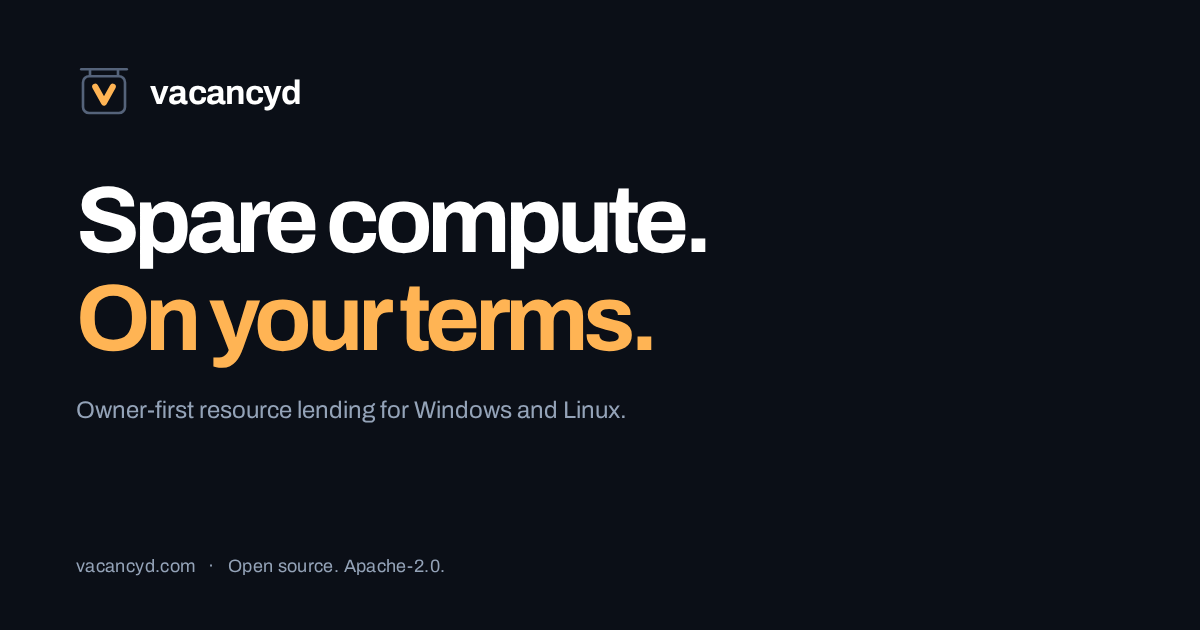
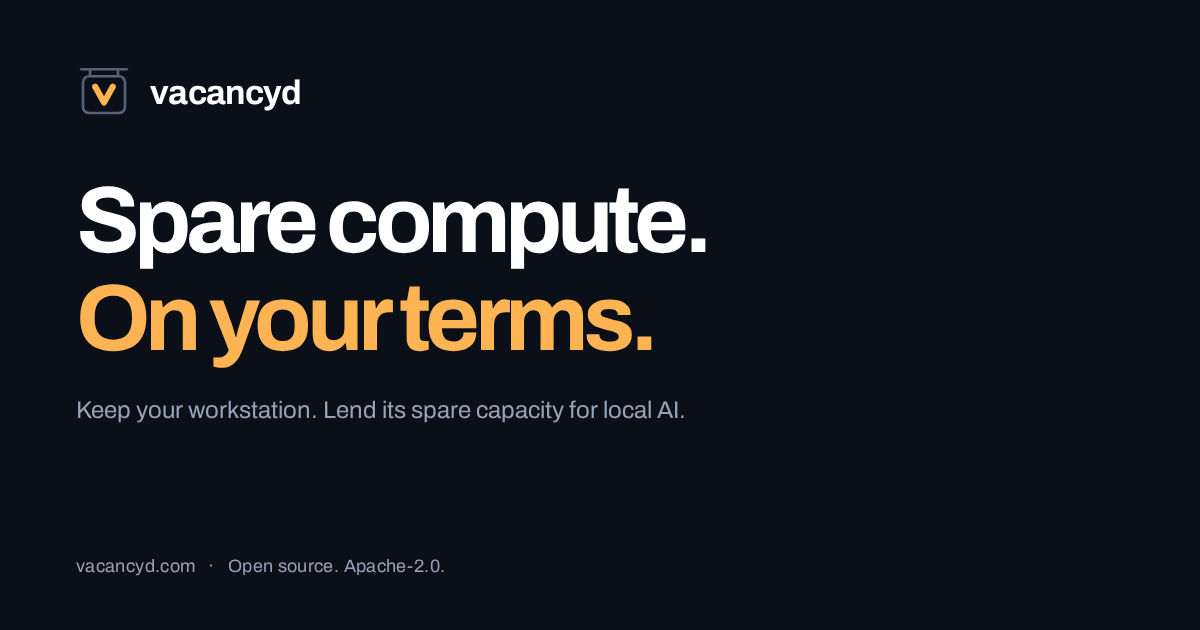
docs: unify workstation lending message

Changed region(s): [[0.0617, 0.6333, 0.5858, 0.6635]]

diff --git a/website/index.html b/website/index.html
@@ -6,7 +6,7 @@
     <title>Vacancyd — Spare compute. On your terms.</title>
     <meta
       name="description"
-      content="Lend spare compute to local AI while keeping owner policy in control. Vacancyd checks presence, resources and workload policy before admitting borrowed work."
+      content="Keep your workstation. Let your homelab borrow its spare capacity for local AI, without turning it into a cluster node. You choose what can lend and when."
     />
     <link rel="canonical" href="https://vacancyd.com/" />
     <meta name="theme-color" content="#0b0f17" />
@@ -18,7 +18,7 @@
     />
     <meta
       property="og:description"
-      content="Your workstation has room for more. You still get first call."
+      content="Your workstation stays a workstation. Your homelab borrows its spare capacity for local AI. You choose what can lend and when."
     />
     <meta property="og:url" content="https://vacancyd.com/" />
     <meta
@@ -32,7 +32,7 @@
     />
     <meta
       name="twitter:description"
-      content="Owner-first resource lending for local compute. Windows and Linux. Apache-2.0."
+      content="Keep your workstation. Lend its spare capacity for local AI. Windows and Linux. Apache-2.0."
     />
     <meta
       name="twitter:image"
@@ -47,7 +47,7 @@
         "@type": "SoftwareApplication",
         "name": "Vacancyd",
         "url": "https://vacancyd.com/",
-        "description": "Owner-first resource lending for local compute.",
+        "description": "Keep your workstation. Let your homelab borrow its spare capacity for local AI under your rules.",
         "applicationCategory": "DeveloperApplication",
         "operatingSystem": "Windows, Linux",
         "license": "https://www.apache.org/licenses/LICENSE-2.0",
@@ -82,12 +82,12 @@
     <main id="main">
       <section class="hero" aria-labelledby="hero-title">
         <div class="hero-copy wrap">
-          <p class="eyebrow">Owner-first compute lending</p>
+          <p class="eyebrow">Your workstation. More useful to your homelab.</p>
           <h1 id="hero-title">
             Spare compute.<br /><span>On your terms.</span>
           </h1>
           <p class="hero-description">
-            Your workstation has room for more.<br />You still get first call.
+            Keep your workstation.<br />Let your homelab borrow its spare capacity for local AI.
           </p>
           <div class="hero-actions">
             <a class="button" href="#get-vacancyd"
@@ -132,19 +132,29 @@
       >
         <p class="eyebrow">Built for the machine you already use</p>
         <h2 id="idea-title">
-          A workstation.<br /><span class="muted">With a little vacancy.</span>
+          Your best GPU.<br /><span class="muted">Still your workstation.</span>
         </h2>
         <div class="intro-bottom">
           <p class="large-copy">
-            Run a local model. Share an inference route. Put spare resources to
-            work when your machine can afford it.
+            Your workstation may be one of the most powerful computers in your
+            homelab. It's also where you work and play, with capacity sitting
+            unused for a good chunk of the day.
           </p>
           <p>
-            Vacancyd sits in front of your inference server. Before borrowed
-            work gets through, it checks owner policy, resource availability and
-            the rules for that workload. You choose what can lend, and when.
+            Making it a cluster node or virtualization host can mean getting your
+            desktop back through a thin client or GPU passthrough. Vacancyd gives
+            you a hybrid option: keep your operating system and everyday apps,
+            while other homelab applications borrow spare capacity through local
+            AI services. You choose what they can borrow and when.
           </p>
         </div>
+        <p class="intro-services">
+          Use it with Ollama, llama.cpp, ComfyUI, Chatterbox or the
+          <a href="https://docs.vacancyd.com/architecture/">documented routes</a>
+          of OpenAI-compatible servers. Vacancyd checks owner activity, available
+          resources and the requested workload before letting borrowed work through.
+          Your workstation doesn't have to join the cluster.
+        </p>
       </section>
 
       <section
@@ -155,9 +165,11 @@
         <div class="wrap">
           <div class="section-heading reveal">
             <p class="eyebrow">The sign says it all</p>
-            <h2 id="how-title">Room for work.<br />Until you need it.</h2>
+            <h2 id="how-title">Room for a<br />temporary resident.</h2>
             <p>
-              A normal refusal is the policy working. Try the two states below.
+              VACANCY means there's room for a new temporary resident: a borrowed
+              workload. NO VACANCY means the machine isn't accepting that work
+              under the current rules. Try the two states below.
             </p>
           </div>
           <div class="demo-panel reveal">
@@ -183,7 +195,7 @@
               ><span class="sign-vacancy">VACANCY</span>
             </div>
             <div class="demo-caption" aria-live="polite" aria-atomic="true">
-              <h3 id="demo-title">Room for borrowed work.</h3>
+              <h3 id="demo-title">Room for a temporary resident.</h3>
               <p id="demo-description">
                 This example route can accept work while its owner is away and
                 the resource checks pass.
@@ -200,6 +212,8 @@
               Interactive illustration, not live telemetry. Work already
               admitted follows your configured cancel, drain or finish policy.
               Resource-scoped routes can have different owner-presence rules.
+              A closed connection or an unload acknowledgement alone doesn't
+              prove that computation stopped or memory was recovered.
             </p>
           </div>
         </div>
@@ -238,9 +252,9 @@
             <span class="feature-number">02 / Capacity</span>
             <h3>Spare means spare.</h3>
             <p>
-              CPU, memory and GPU checks decide whether a configured route has
-              room. Unknown or stale required readings withhold new work rather
-              than guessing.
+              Measured model footprints and CPU, memory and GPU checks decide
+              whether a configured route has room. Unknown or stale required
+              readings withhold new work.
             </p>
             <div class="resource-art" aria-hidden="true">
               <span>CPU <i style="--fill: 38%"></i></span
@@ -253,9 +267,10 @@
             <span class="feature-number">03 / Policy</span>
             <h3>Set the terms.</h3>
             <p>
-              Choose the resources a workload needs, who may borrow them and
-              what happens to admitted work when policy changes. Pause lending
-              from the owner console.
+              Choose what can lend and when. A dedicated second GPU can keep
+              lending while you're at the keyboard, subject to its resource
+              checks. Set what happens to accepted work when permission changes:
+              cancel, allow a bounded time to finish, or let it complete.
             </p>
             <a href="https://docs.vacancyd.com/admission/"
               >Read the admission rules <span aria-hidden="true">↗</span></a
@@ -276,7 +291,8 @@
             <p>
               See what is lending, what is withholding and why. Inspect workload
               decisions, adjust supported settings and export diagnostics when
-              you need a closer look.
+              you need a closer look. Prometheus metrics let your other tools
+              observe availability; those tools still choose and route the work.
             </p>
           </div>
           <div class="console-detail reveal">
@@ -347,8 +363,9 @@
           <a href="https://docs.vacancyd.com/#platform-support"
             >platform support table</a
           >
-          before enabling lending. ARM64 is preview. macOS is not supported in
-          version 1.0.
+          before enabling lending. NVIDIA is the current GPU target. Windows has
+          the fuller desktop-activity and attributed GPU-pressure checks. Linux
+          ARM64 is preview. macOS is not supported in version 1.0.
         </p>
       </section>
 
@@ -386,8 +403,10 @@
             >
           </div>
           <p class="download-license">
-            Open source under Apache-2.0.<br />Built for a trusted network. Keep
-            your inference servers behind it.
+            Open source under Apache-2.0.<br />The daemon runs locally, without a
+            marketplace account, external control service or product telemetry.
+            Scoped tokens can restrict borrower access. Keep the underlying AI
+            services inaccessible to borrowers so they can't bypass the gate.
           </p>
         </div>
       </section>

diff --git a/website/app.js b/website/app.js
@@ -8,7 +8,7 @@ for (const button of choices) {
     sign.dataset.vacancy = String(away);
     sign.setAttribute("aria-label", away ? "Vacancy" : "No vacancy");
     document.querySelector("#demo-title").textContent = away
-      ? "Room for borrowed work."
+      ? "Room for a temporary resident."
       : "Owner policy pauses new work.";
     document.querySelector("#demo-description").textContent = away
       ? "This example route can accept work while its owner is away and the resource checks pass."

diff --git a/website/styles.css b/website/styles.css
@@ -344,6 +344,13 @@ button {
   letter-spacing: -0.015em;
   color: #94a3b8;
 }
+.intro-services {
+  max-width: 80ch;
+  margin-top: 32px;
+  color: var(--slate);
+  font-size: 16px;
+  line-height: 1.7;
+}
 .demo-section {
   background: #ffffff;
   color: #151b27;
@@ -728,8 +735,9 @@ button {
   margin: 24px auto;
 }
 .download-license {
-  margin-top: 26px;
-  font-size: 11px;
+  max-width: 68ch;
+  margin: 26px auto 0;
+  font-size: 14px;
   line-height: 1.8;
   color: #94a3b8;
 }

diff --git a/scripts/prepare_docs.py b/scripts/prepare_docs.py
@@ -16,7 +16,7 @@ REPOSITORY = "https://github.com/maxfield-allison/vacancyd"
 LINK = re.compile(r"(?P<start>!?\[[^\]\n]*\]\()(?P<url>[^\s)]+)(?P<end>\))")
 
 DESCRIPTIONS = {
-    "index.md": "Owner-first compute lending for Windows and Linux: capabilities, installation, security and platform support.",
+    "index.md": "Keep your workstation. Let your homelab borrow its spare capacity for local AI. Setup, house rules and platform support for Windows and Linux.",
     "setup.md": "Install and configure vacancyd, verify a protected configuration and activate resource lending.",
     "windows-service.md": "Install and manage the vacancyd Windows service, owner console and session agent.",
     "container.md": "Run vacancyd in a Linux container with explicit presence policy, GPU access and verified images.",

diff --git a/README.md b/README.md
@@ -1,16 +1,24 @@
 # vacancyd
 
-[![vacancyd — Spare compute. On your terms.](https://raw.githubusercontent.com/maxfield-allison/vacancyd/main/website/assets/social-card.png)](https://vacancyd.com/)
+[![vacancyd: Spare compute. On your terms. Keep your workstation. Lend its spare capacity for local AI.](https://raw.githubusercontent.com/maxfield-allison/vacancyd/main/website/assets/social-card.png)](https://vacancyd.com/)
 
-**Gate borrowed AI requests on owner policy and available resources.** Windows and Linux. Apache-2.0.
+**Keep your workstation. Let your homelab borrow its spare capacity for local AI.** Windows and Linux. Apache-2.0.
 
 [App website](https://vacancyd.com/) · [Documentation](https://docs.vacancyd.com/) · [Setup guide](docs/setup.md) · [Release verification](docs/releasing.md) · [Security](SECURITY.md)
 
 > **Release status:** source is available. Signed version 1.0.0 downloads and container images are being prepared; a source tag alone is not a published binary release.
 
-Your gaming PC has the best GPU in the house and sits idle most of the day. Your homelab wants that VRAM. The obvious move is to point the cluster at the box. That has an obvious failure mode: a 13 GiB model loads in the middle of a boss fight.
+Your workstation may be one of the most powerful computers in your homelab. It might have the best GPU you own. It's also the machine you use for games and everyday work, and for a good chunk of the day, much of that capacity sits unused.
 
-vacancyd is the motel sign for your hardware. Put it in front of a dedicated inference server and point borrowers at the gate. **VACANCY** means an upstream can admit new work; **NO VACANCY** means it refuses with HTTP 503, a reason and `Retry-After`. Gateway failover depends on the gateway's adapter and configuration.
+Putting it to work for the rest of the homelab can mean changing what that machine is. Turn it into a cluster node or virtualization host, and now you're figuring out how to get your desktop back through a thin client or GPU passthrough. The GPU can still end up tied to one environment. Keep the workstation separate, and your other machines may be struggling for capacity while it has room to spare.
+
+vacancyd gives you a hybrid option. Your workstation stays a workstation, running its own operating system and the applications you use. Other applications in your homelab can borrow its spare capacity for local AI work through services running on it. You choose what they can borrow and when. The workstation doesn't have to join the cluster, and you don't have to move your desktop into a virtual machine to make its GPU useful elsewhere.
+
+The name comes from a motel's vacancy sign. **VACANCY** means there's room for a new temporary resident: a borrowed workload. **NO VACANCY** means the machine isn't accepting that work under the current rules. Put vacancyd in front of a dedicated AI service and point borrowers at the gate. A refusal returns HTTP 503, a reason and `Retry-After`, which a borrower can use to wait or try another machine if configured to do so. Gateway failover depends on the gateway's adapter and configuration.
+
+## You set the house rules
+
+vacancyd checks owner activity, available resources and the requirements of the requested workload before letting it through. Configure measured model footprints and dependencies across GPU memory, system memory and CPU. Missing or stale required readings withhold new work. Supported integrations include Ollama, llama.cpp, ComfyUI, Chatterbox and the documented routes of OpenAI-compatible servers.
 
 By default, an upstream uses `owner_scope = "host"`, so owner presence can refuse its new work. Accepted work follows its configured cancel, drain or finish policy; the default drain window is 30 seconds. Closing a proxy connection does not prove that the upstream stopped computing or released memory. Automatic model unloading is a separate, adapter-specific option.
 

diff --git a/docs/brand.md b/docs/brand.md
@@ -10,7 +10,7 @@ Status: **console visual direction settled**. Its scope is dark surfaces, amber 
 
 The name is doing the work already, so the identity should follow it rather than invent something alongside it.
 
-**vacancyd is a vacancy sign.** The sign matches the interface: `/status` reports `vacancy: true|false` per upstream, and a refusal returns the error code `no_vacancy`. Use it to show the lending state.
+**vacancyd is a vacancy sign.** VACANCY means there's room for a new temporary resident: a borrowed workload. NO VACANCY means the machine isn't accepting that work under the current rules. The sign matches the interface: `/status` reports `vacancy: true|false` per upstream, and a refusal returns the error code `no_vacancy`. Use it to show the lending state.
 
 The sign stays lit. **VACANCY** is always illuminated; only **NO** switches on when borrowing is withheld. When borrowing is available, the unlit NO lettering remains in place. The sign's shape and position stay stable.
 
@@ -141,6 +141,10 @@ The owner console draws the vacancy sign the same way wherever it appears: Archi
 
 ## Voice
 
+Lead with the reason to use it: **keep your workstation, and let your homelab borrow its spare capacity for local AI.** The workstation can keep its operating system and everyday applications; it doesn't have to become a cluster node or virtualization host. The [README introduction](../README.md) is the full product explanation, also used as the documentation homepage.
+
+The short brand line remains **Spare compute. On your terms.** Pair it with the concrete workstation benefit, then explain the vacancy sign and the owner's house rules. Supported AI services define the lending scope; this is not a promise to run arbitrary cluster jobs. A resource can keep lending while the owner is present if its policy permits, so avoid describing all lending as idle-only.
+
 Keep the documentation direct and technically specific. Explain limitations alongside the behavior they qualify.
 
 **State the honest limitation next to the claim.** Admission and upstream cancellation are different checks. A closed proxy connection does not prove that the upstream stopped computing. See [admission and recovery](admission.md#owner-return).
@@ -153,9 +157,9 @@ Avoid: "effortlessly", "seamlessly", "blazingly fast", "just works". The project
 
 ## Current assets and future applications
 
-The repository ships the four SVG marks under `docs/assets/brand/`, the Windows icon under `console/icons/`, and the console's embedded Archivo and IBM Plex Mono fonts with their licenses. Public documentation is Markdown in this repository. A hosted documentation site, horizontal and stacked lockups, favicon set, and a 1200 × 630 social card are future applications, not shipped product features.
+The repository ships four SVG marks under `docs/assets/brand/`, the Windows icon under `console/icons/`, and the console's embedded Archivo and IBM Plex Mono fonts with their licenses. The app website is [vacancyd.com](https://vacancyd.com/); native Zensical documentation is [docs.vacancyd.com](https://docs.vacancyd.com/), built from this repository's Markdown. Website assets include console screenshots rendered with example data, the SVG favicon, and a 1200 × 630 social card. Their source and provenance live under `website/assets/` and `console/web/site-tests/`. Horizontal and stacked lockups and a broader favicon set remain future applications.
 
-Any new artwork should follow these tokens and sign geometry and be reviewed before use. A missing social card does not authorize a new asset or a claim that a hosted site exists.
+Any new artwork should follow these tokens and sign geometry and be reviewed before use. Keep release availability separate from the product description: source, installers and container images have distinct publication states.
 
 ### Deliberately not copying dnsweaver
 

diff --git a/changes/+workstation-messaging.changed.md b/changes/+workstation-messaging.changed.md
@@ -1,0 +1,1 @@
+The website and documentation explain how a workstation can keep its everyday role while homelab applications borrow spare capacity for local AI. The vacancy sign, supported services and lending policies are described together.
